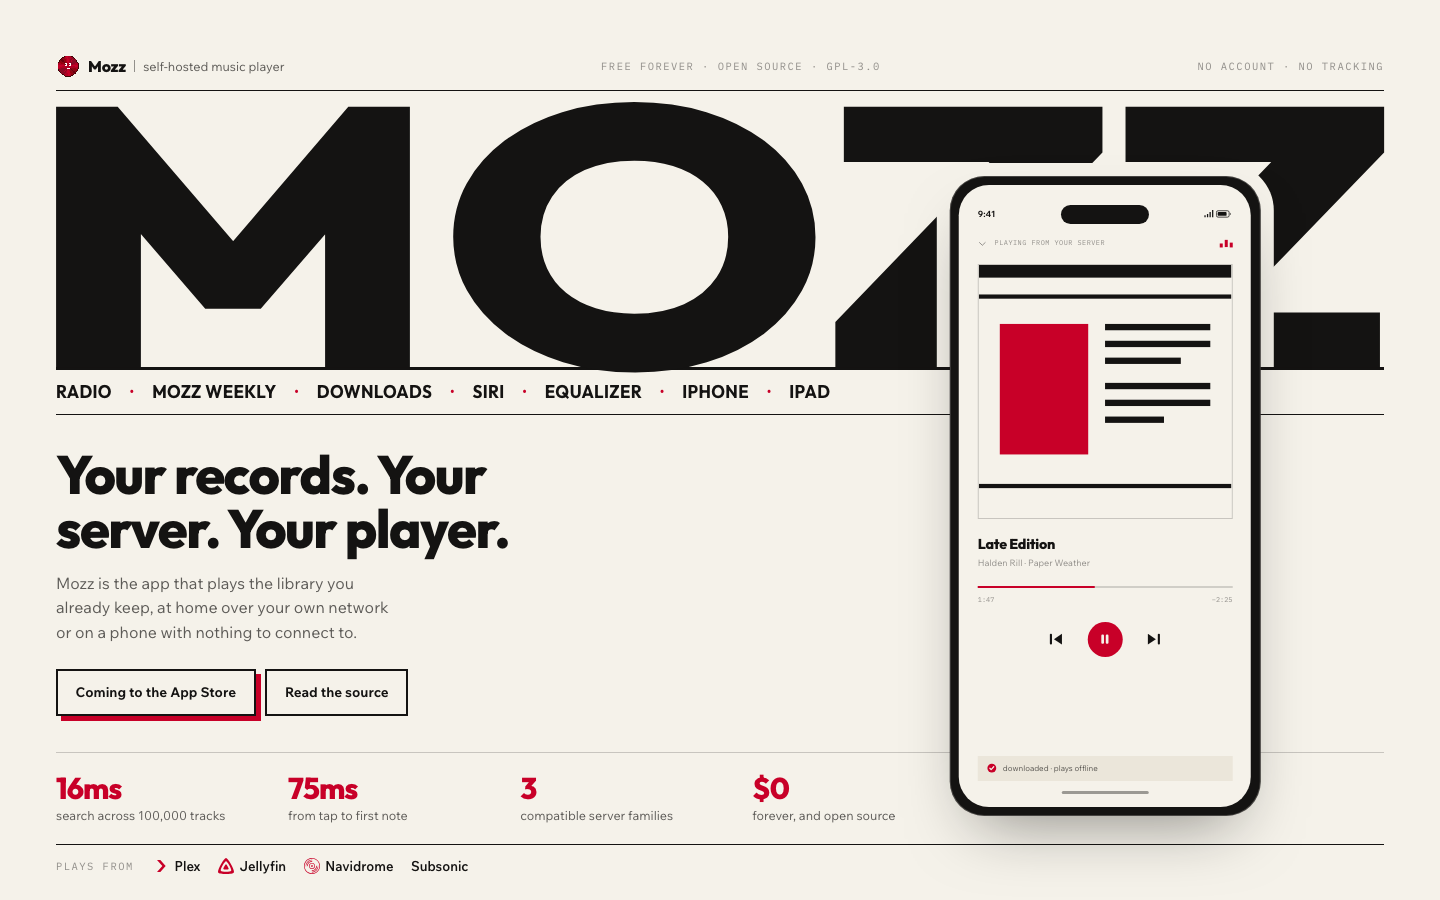
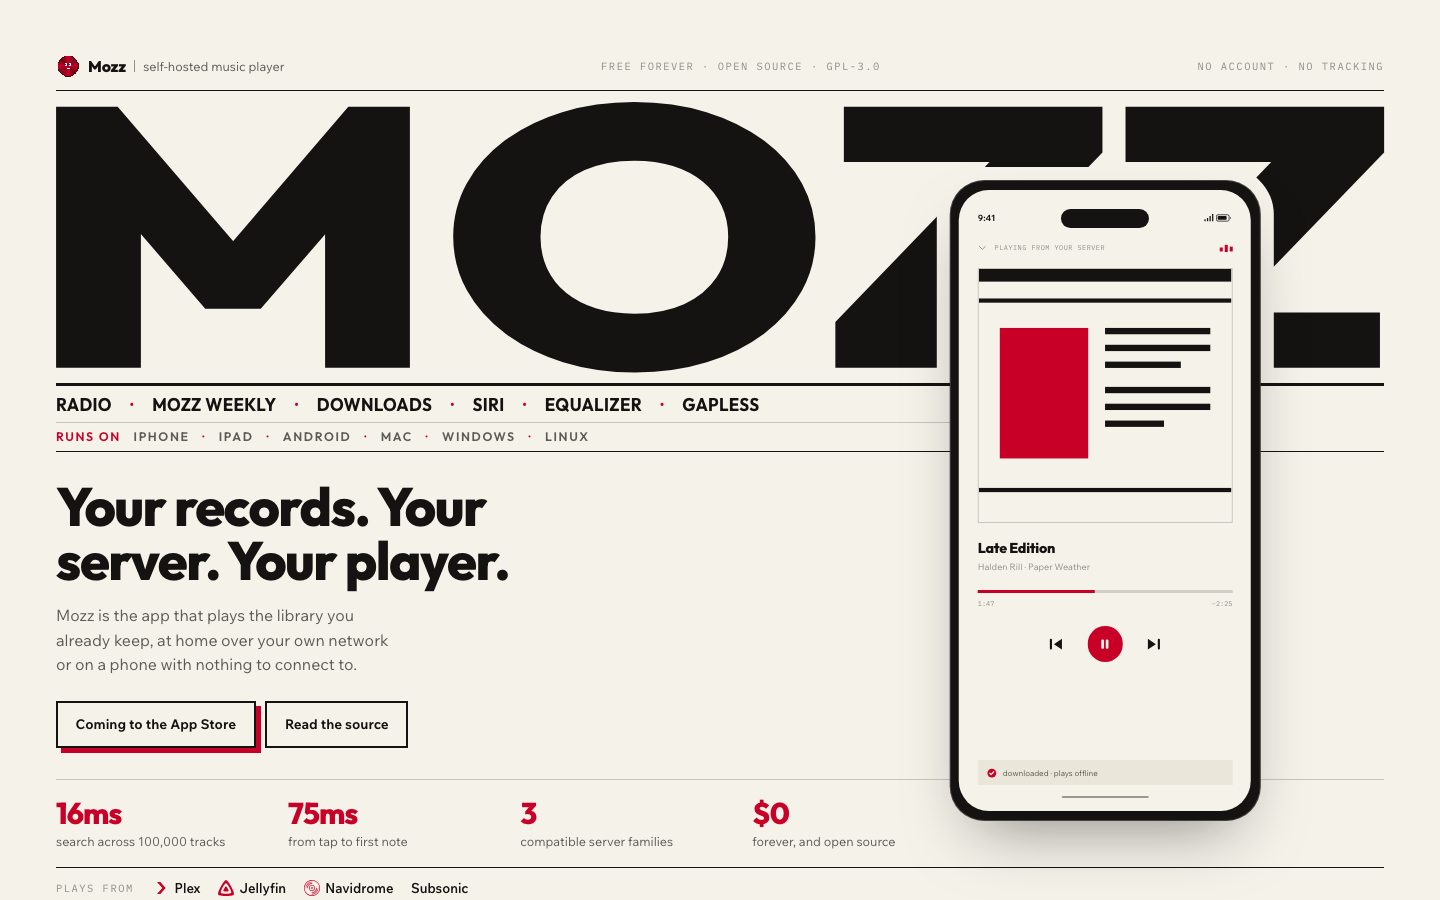
Put the six platforms in the hero on the shortlisted variants
Mozz is no longer an Apple-only app, so the pages that sold it as one now say
what it runs on where it matters — in the hero, in each page's own language
rather than as a row of badges bolted onto five different designs.

  emblem, emblem-mark, emblem-round  a ruled specimen table under accession
      MZ.010, captioned "Issued in 6 editions", six cells that fold 3+3 on a
      phone. The trio stay identical apart from their stamp.
  poster-site  a second line of the bill of fare, "Runs on" set in red with
      the machines behind it, one size down in the same condensed caps. On a
      phone the label takes the line above so the names never orphan.
  masthead  the edition strip becomes two lines: the contents of the issue,
      then a finer edition line under its own hairline. The strip is trimmed
      back elsewhere so the hero still ends on the same fold at 1440x900.

The platform names and the summary sentence come from PLATFORMS and
PLATFORM_LINE in site.ts. Meta descriptions and masthead's colophon follow.

Also scopes CONTINUITY to Apple devices. iCloud Keychain and Handoff are
Apple mechanisms; with Android, Windows and Linux in scope, the old wording
would have read as a cross-platform claim that is not true.

Nothing here claims a release. The App Store URL is still empty and every
page still renders the pending state exactly as before.

diff --git a/src/data/site.ts b/src/data/site.ts
@@ -113,10 +113,15 @@ export const PLATFORM_LINE =
  * the sign-in, and Handoff advertises the destination you are on. It does NOT
  * say downloads or the play queue sync — downloads are saved per device — so
  * neither is claimed here.
+ *
+ * Both mechanisms are Apple's, and Mozz now runs on six platforms, so the
+ * sentence names Apple devices out loud. Unscoped, "your other devices" would
+ * read as a cross-platform sync service — which is precisely the thing this
+ * app does not have.
  */
 export const CONTINUITY = {
   title: 'Pick up on the other one',
-  body: 'Sign in once and iCloud Keychain carries your server to your other devices. Handoff passes the album, artist or playlist you are on straight across, so it is already waiting.',
+  body: 'On your Apple devices, sign in once and iCloud Keychain carries your server across. Handoff passes the album, artist or playlist you are on straight to the one in your hand, so it is already waiting.',
 } as const;
 
 /** The ownership argument, which is the whole point of the app. */
